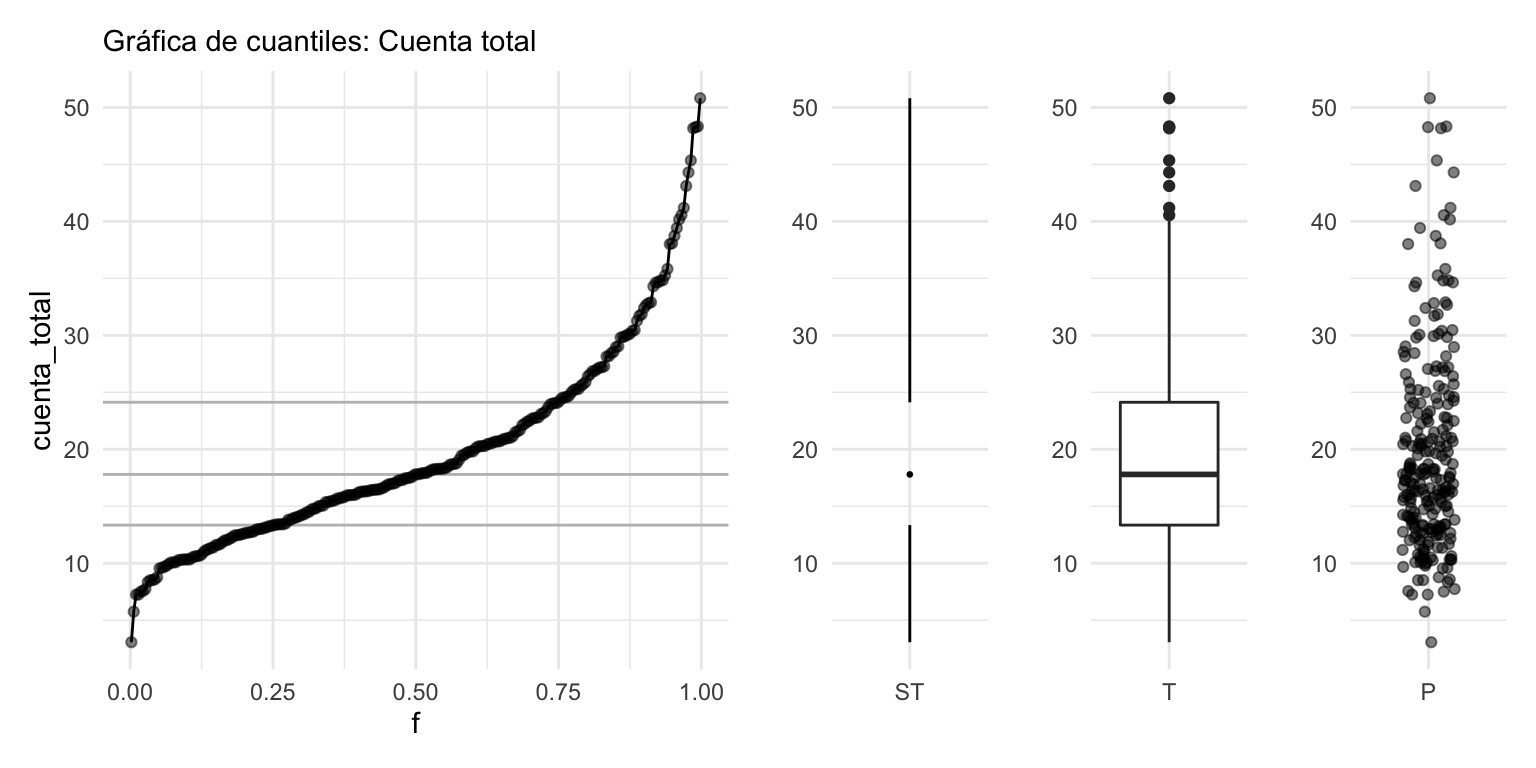
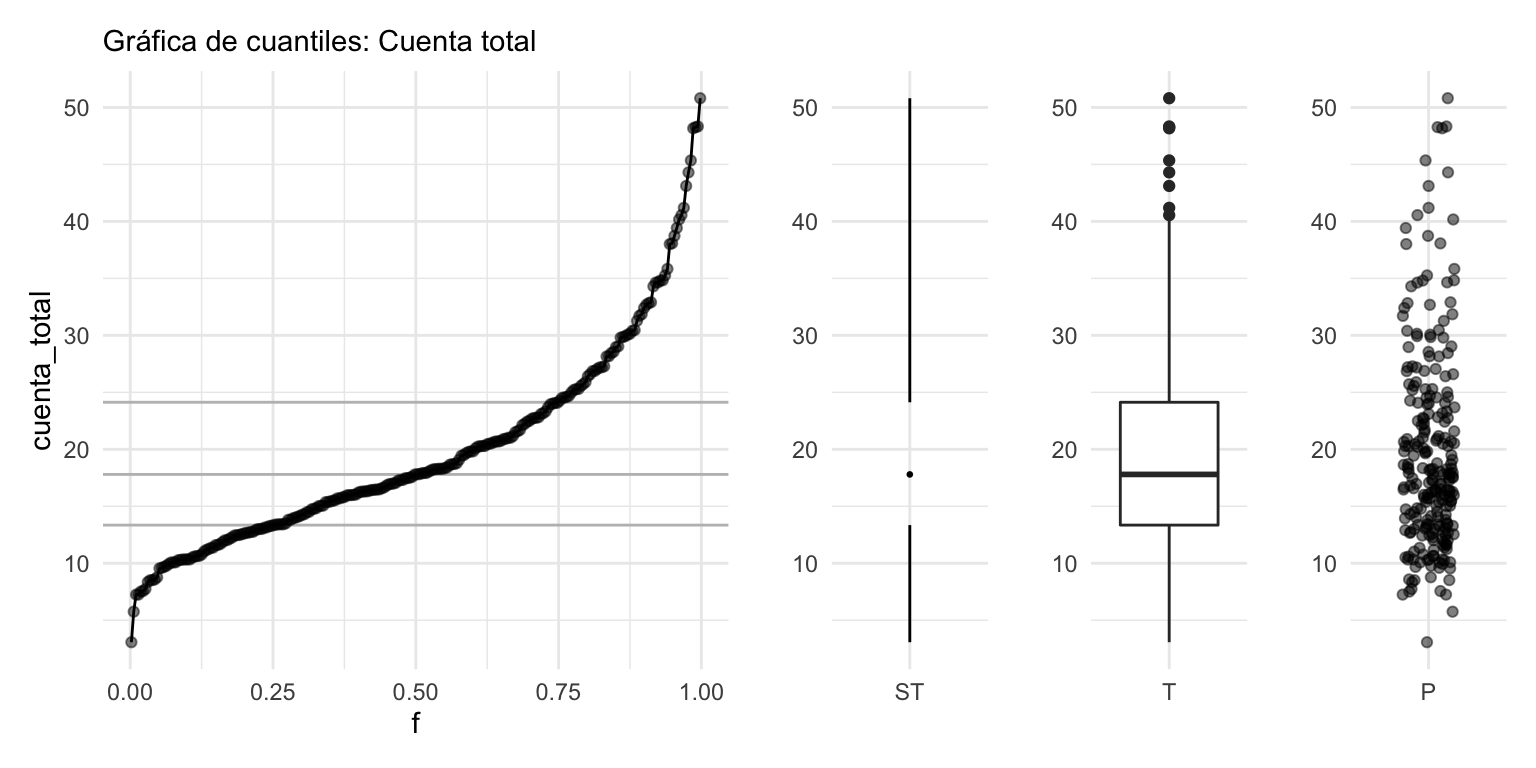
tereom published a site update

Changed region(s): [[0.9062, 0.3438, 0.9688, 0.8438], [0.9062, 0.1562, 0.9688, 0.3125]]

diff --git a/análisis-exploratorio.html b/análisis-exploratorio.html
@@ -177,6 +177,7 @@ code span.wa { color: #60a0b0; font-weight: bold; font-style: italic; } /* Warni
 </ul></li>
 <li class="chapter" data-level="" data-path="tareas.html"><a href="tareas.html"><i class="fa fa-check"></i>Tareas</a><ul>
 <li class="chapter" data-level="" data-path="tareas.html"><a href="tareas.html#anáslisis-exploratorio"><i class="fa fa-check"></i>1. Anáslisis Exploratorio</a></li>
+<li class="chapter" data-level="" data-path="análisis-exploratorio.html"><a href="análisis-exploratorio.html#loess"><i class="fa fa-check"></i>2. Loess</a></li>
 </ul></li>
 <li class="chapter" data-level="" data-path="referencias.html"><a href="referencias.html"><i class="fa fa-check"></i>Referencias</a></li>
 <li class="divider"></li>
@@ -274,84 +275,84 @@ cuatro días consecutivos:</p>
 </thead>
 <tbody>
 <tr class="odd">
-<td align="right">34.30</td>
-<td align="right">6.70</td>
-<td align="left">No</td>
+<td align="right">16.00</td>
+<td align="right">2.00</td>
+<td align="left">Si</td>
 <td align="left">Jue</td>
 <td align="left">Comida</td>
-<td align="right">6</td>
-</tr>
-<tr class="even">
-<td align="right">24.55</td>
-<td align="right">2.00</td>
-<td align="left">No</td>
-<td align="left">Dom</td>
-<td align="left">Cena</td>
-<td align="right">4</td>
-</tr>
-<tr class="odd">
-<td align="right">13.27</td>
-<td align="right">2.50</td>
-<td align="left">Si</td>
-<td align="left">Sab</td>
-<td align="left">Cena</td>
 <td align="right">2</td>
 </tr>
 <tr class="even">
-<td align="right">18.43</td>
+<td align="right">17.07</td>
 <td align="right">3.00</td>
-<td align="left">No</td>
-<td align="left">Dom</td>
-<td align="left">Cena</td>
-<td align="right">4</td>
-</tr>
-<tr class="odd">
-<td align="right">16.04</td>
-<td align="right">2.24</td>
 <td align="left">No</td>
 <td align="left">Sab</td>
 <td align="left">Cena</td>
 <td align="right">3</td>
 </tr>
-<tr class="even">
-<td align="right">16.32</td>
-<td align="right">4.30</td>
-<td align="left">Si</td>
-<td align="left">Vie</td>
-<td align="left">Cena</td>
-<td align="right">2</td>
-</tr>
 <tr class="odd">
-<td align="right">7.25</td>
-<td align="right">5.15</td>
-<td align="left">Si</td>
+<td align="right">9.94</td>
+<td align="right">1.56</td>
+<td align="left">No</td>
 <td align="left">Dom</td>
 <td align="left">Cena</td>
 <td align="right">2</td>
 </tr>
 <tr class="even">
-<td align="right">18.29</td>
-<td align="right">3.00</td>
+<td align="right">28.44</td>
+<td align="right">2.56</td>
+<td align="left">Si</td>
+<td align="left">Jue</td>
+<td align="left">Comida</td>
+<td align="right">2</td>
+</tr>
+<tr class="odd">
+<td align="right">18.15</td>
+<td align="right">3.50</td>
+<td align="left">Si</td>
+<td align="left">Dom</td>
+<td align="left">Cena</td>
+<td align="right">3</td>
+</tr>
+<tr class="even">
+<td align="right">13.13</td>
+<td align="right">2.00</td>
 <td align="left">No</td>
 <td align="left">Dom</td>
 <td align="left">Cena</td>
 <td align="right">2</td>
 </tr>
 <tr class="odd">
-<td align="right">15.95</td>
-<td align="right">2.00</td>
+<td align="right">8.35</td>
+<td align="right">1.50</td>
 <td align="left">No</td>
 <td align="left">Jue</td>
 <td align="left">Comida</td>
 <td align="right">2</td>
 </tr>
 <tr class="even">
-<td align="right">26.86</td>
-<td align="right">3.14</td>
+<td align="right">17.89</td>
+<td align="right">2.00</td>
 <td align="left">Si</td>
-<td align="left">Sab</td>
+<td align="left">Dom</td>
 <td align="left">Cena</td>
 <td align="right">2</td>
+</tr>
+<tr class="odd">
+<td align="right">24.08</td>
+<td align="right">2.92</td>
+<td align="left">No</td>
+<td align="left">Jue</td>
+<td align="left">Comida</td>
+<td align="right">4</td>
+</tr>
+<tr class="even">
+<td align="right">48.27</td>
+<td align="right">6.73</td>
+<td align="left">No</td>
+<td align="left">Sab</td>
+<td align="left">Cena</td>
+<td align="right">4</td>
 </tr>
 </tbody>
 </table>

diff --git a/tareas.html b/tareas.html
@@ -177,6 +177,7 @@ code span.wa { color: #60a0b0; font-weight: bold; font-style: italic; } /* Warni
 </ul></li>
 <li class="chapter" data-level="" data-path="tareas.html"><a href="tareas.html"><i class="fa fa-check"></i>Tareas</a><ul>
 <li class="chapter" data-level="" data-path="tareas.html"><a href="tareas.html#anáslisis-exploratorio"><i class="fa fa-check"></i>1. Anáslisis Exploratorio</a></li>
+<li class="chapter" data-level="" data-path="análisis-exploratorio.html"><a href="análisis-exploratorio.html#loess"><i class="fa fa-check"></i>2. Loess</a></li>
 </ul></li>
 <li class="chapter" data-level="" data-path="referencias.html"><a href="referencias.html"><i class="fa fa-check"></i>Referencias</a></li>
 <li class="divider"></li>
@@ -210,6 +211,14 @@ fundamentos-tareaXX (donde XX corresponde al número de tarea, 01..).</p></li>
 <h2>1. Anáslisis Exploratorio</h2>
 <p>Realicen los ejercicios del script 01_exploratorio.R que vimos la clase pasada (RStudio.cloud proyecto 01-exploratorio). Escriban las respuestas en un reporte
 que incluya código y resultados (puede ser word, html, pdf,…).</p>
+</div>
+<div id="loess" class="section level2 unnumbered">
+<h2>2. Loess</h2>
+<p>La tarea 2 es el proyecto de RStudio.Cloud con este nombre, el ejercicio está
+en un archvio de R Markdown, para los que son nuevos con R Markdown deben
+escribir su código en los bloques de código (secciones grises entre
+```{r} codigo ```) una vez que escriban sus respuestas pueden generar el reporte tejiendo el documento, para esto deben presionar el botón <em>Knit</em>. Envíen el
+reporte por correo electrónico (con título fundamentos-tarea02).</p>
 
 </div>
 </div>

diff --git a/index.html b/index.html
@@ -177,6 +177,7 @@ code span.wa { color: #60a0b0; font-weight: bold; font-style: italic; } /* Warni
 </ul></li>
 <li class="chapter" data-level="" data-path="tareas.html"><a href="tareas.html"><i class="fa fa-check"></i>Tareas</a><ul>
 <li class="chapter" data-level="" data-path="tareas.html"><a href="tareas.html#anáslisis-exploratorio"><i class="fa fa-check"></i>1. Anáslisis Exploratorio</a></li>
+<li class="chapter" data-level="" data-path="análisis-exploratorio.html"><a href="análisis-exploratorio.html#loess"><i class="fa fa-check"></i>2. Loess</a></li>
 </ul></li>
 <li class="chapter" data-level="" data-path="referencias.html"><a href="referencias.html"><i class="fa fa-check"></i>Referencias</a></li>
 <li class="divider"></li>

diff --git a/principios-de-visualización.html b/principios-de-visualización.html
@@ -177,6 +177,7 @@ code span.wa { color: #60a0b0; font-weight: bold; font-style: italic; } /* Warni
 </ul></li>
 <li class="chapter" data-level="" data-path="tareas.html"><a href="tareas.html"><i class="fa fa-check"></i>Tareas</a><ul>
 <li class="chapter" data-level="" data-path="tareas.html"><a href="tareas.html#anáslisis-exploratorio"><i class="fa fa-check"></i>1. Anáslisis Exploratorio</a></li>
+<li class="chapter" data-level="" data-path="análisis-exploratorio.html"><a href="análisis-exploratorio.html#loess"><i class="fa fa-check"></i>2. Loess</a></li>
 </ul></li>
 <li class="chapter" data-level="" data-path="referencias.html"><a href="referencias.html"><i class="fa fa-check"></i>Referencias</a></li>
 <li class="divider"></li>

diff --git a/referencias.html b/referencias.html
@@ -177,6 +177,7 @@ code span.wa { color: #60a0b0; font-weight: bold; font-style: italic; } /* Warni
 </ul></li>
 <li class="chapter" data-level="" data-path="tareas.html"><a href="tareas.html"><i class="fa fa-check"></i>Tareas</a><ul>
 <li class="chapter" data-level="" data-path="tareas.html"><a href="tareas.html#anáslisis-exploratorio"><i class="fa fa-check"></i>1. Anáslisis Exploratorio</a></li>
+<li class="chapter" data-level="" data-path="análisis-exploratorio.html"><a href="análisis-exploratorio.html#loess"><i class="fa fa-check"></i>2. Loess</a></li>
 </ul></li>
 <li class="chapter" data-level="" data-path="referencias.html"><a href="referencias.html"><i class="fa fa-check"></i>Referencias</a></li>
 <li class="divider"></li>

diff --git a/02-exploratorio.md b/02-exploratorio.md
@@ -82,16 +82,16 @@ sample_n(propinas, 10) %>% formatear_tabla()
 
 | cuenta_total| propina|fumador |dia |momento | num_personas|
 |------------:|-------:|:-------|:---|:-------|------------:|
-|        34.30|    6.70|No      |Jue |Comida  |            6|
-|        24.55|    2.00|No      |Dom |Cena    |            4|
-|        13.27|    2.50|Si      |Sab |Cena    |            2|
-|        18.43|    3.00|No      |Dom |Cena    |            4|
-|        16.04|    2.24|No      |Sab |Cena    |            3|
-|        16.32|    4.30|Si      |Vie |Cena    |            2|
-|         7.25|    5.15|Si      |Dom |Cena    |            2|
-|        18.29|    3.00|No      |Dom |Cena    |            2|
-|        15.95|    2.00|No      |Jue |Comida  |            2|
-|        26.86|    3.14|Si      |Sab |Cena    |            2|
+|        16.00|    2.00|Si      |Jue |Comida  |            2|
+|        17.07|    3.00|No      |Sab |Cena    |            3|
+|         9.94|    1.56|No      |Dom |Cena    |            2|
+|        28.44|    2.56|Si      |Jue |Comida  |            2|
+|        18.15|    3.50|Si      |Dom |Cena    |            3|
+|        13.13|    2.00|No      |Dom |Cena    |            2|
+|         8.35|    1.50|No      |Jue |Comida  |            2|
+|        17.89|    2.00|Si      |Dom |Cena    |            2|
+|        24.08|    2.92|No      |Jue |Comida  |            4|
+|        48.27|    6.73|No      |Sab |Cena    |            4|
 
 
 Aquí la unidad de observación es una cuenta particular. Tenemos tres mediciones

diff --git a/98-tareas.md b/98-tareas.md
@@ -9,3 +9,12 @@ fundamentos-tareaXX (donde XX corresponde al número de tarea, 01..).
 
 Realicen los ejercicios del script 01_exploratorio.R que vimos la clase pasada (RStudio.cloud proyecto 01-exploratorio). Escriban las respuestas en un reporte 
 que incluya código y resultados (puede ser word, html, pdf,...).
+
+
+## 2. Loess {-}
+
+La tarea 2 es el proyecto de RStudio.Cloud con este nombre, el ejercicio está
+en un archvio de R Markdown, para los que son nuevos con R Markdown deben 
+escribir su código en los bloques de código (secciones grises entre 
+\```{r}  codigo \```) una vez que escriban sus respuestas pueden generar el reporte tejiendo el documento, para esto deben presionar el botón *Knit*. Envíen el 
+reporte por correo electrónico (con título fundamentos-tarea02).
